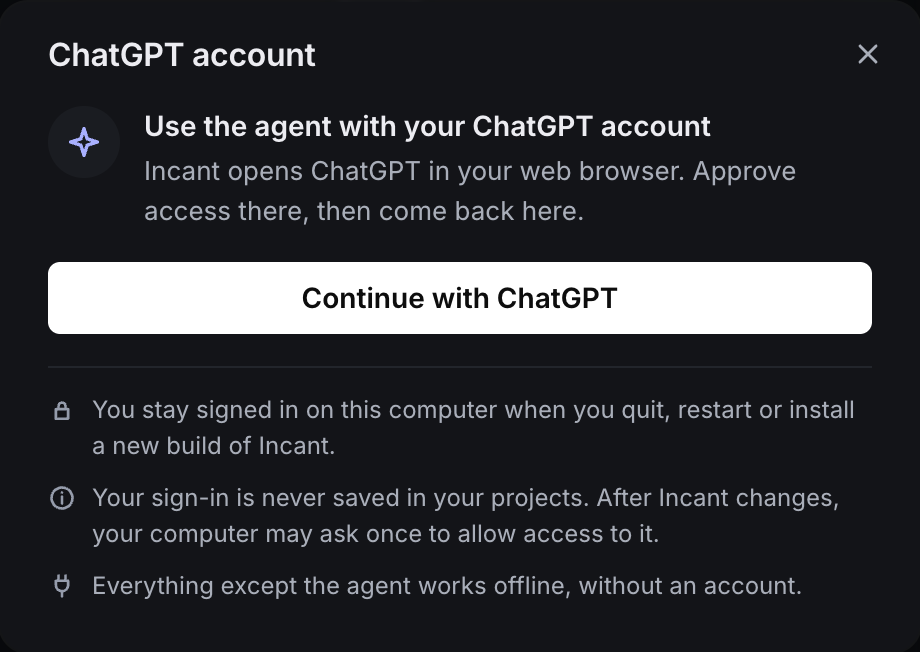
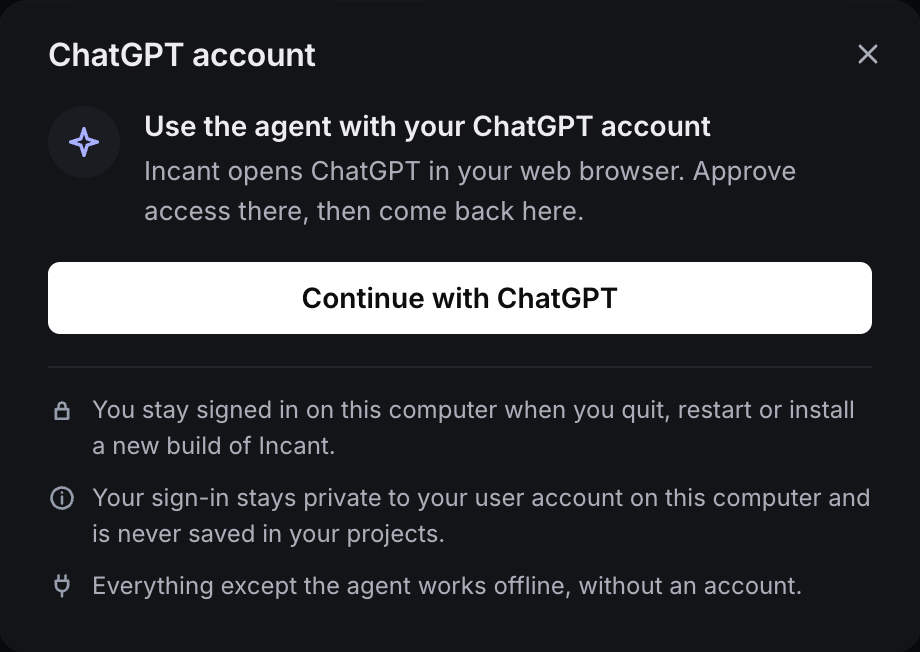
Account dialog: drop the OS permission prompt line from retention copy
Per the director's Keychain correction, sign-in storage on macOS no longer uses
Keychain, so the dialog no longer mentions access prompts. Generic wording: you
stay signed in across restarts and new builds; sign-in stays private to your user
account on this computer and out of projects; offline otherwise. No encryption or
storage details. Test guards against prompt/keychain/permission/encrypt copy.

Built-by: claude

Changed region(s): [[0.0913, 0.7362, 0.9435, 0.8589]]

diff --git a/editor/ui/src/components/AccountDialog.test.tsx b/editor/ui/src/components/AccountDialog.test.tsx
@@ -63,7 +63,9 @@ describe('ChatGPT account dialog', () => {
     const cta = within(d).getByRole('button', { name: 'Continue with ChatGPT' });
     expect(document.activeElement).toBe(cta);
     expect(within(d).getByText(/stay signed in on this computer when you quit, restart or install a new build of Incant/)).toBeTruthy();
-    expect(within(d).getByText(/never saved in your projects/)).toBeTruthy();
+    expect(within(d).getByText(/private to your user account on this computer and is never saved in your projects/)).toBeTruthy();
+    // No storage implementation details or OS permission prompts are promised or described.
+    expect(d.textContent).not.toMatch(/may ask|keychain|permission|encrypt/i);
     expect(within(d).getByText(/works offline, without an account/)).toBeTruthy();
     await expectNoAxeViolations(document.body);
     fireEvent.click(cta);

diff --git a/editor/ui/src/components/AccountDialog.tsx b/editor/ui/src/components/AccountDialog.tsx
@@ -338,10 +338,7 @@ function AccountBody({
         </li>
         <li>
           <Icon name="info" size={14} />
-          <span>
-            Your sign-in is never saved in your projects. After Incant changes, your computer may ask once to allow access to
-            it.
-          </span>
+          <span>Your sign-in stays private to your user account on this computer and is never saved in your projects.</span>
         </li>
         <li>
           <Icon name="plug" size={14} />

diff --git a/handoffs/0003-openai-login/result.md b/handoffs/0003-openai-login/result.md
@@ -8,8 +8,43 @@ packet, so nothing here is native evidence. Phase gate approval is not claimed.
 Model: Claude Opus 5.5 (`claude-opus-5-5`), run through Claude Code in this worktree
 with the director's bypassPermissions authorization. No other model was substituted.
 
-Commits by Claude: 35f3527 holds the first UI. The follow-up is a separate commit on
-top of Astra's 86aa0da, which remains attributed to Astra.
+Commits by Claude: 35f3527 holds the first UI. 8bb34e1 is the follow-up on top of
+Astra's 86aa0da, which remains attributed to Astra. The Keychain copy correction
+below is its own commit.
+
+## Latest correction: no Keychain prompt line (director feedback)
+
+I acknowledge the director's request to stop the repeated Keychain password prompts.
+Astra is moving macOS sign-in storage to private local files. The dialog no longer
+says "After Incant changes, your computer may ask once to allow access to it." I
+chose generic cross-platform wording, so no platform branch is needed. The facts now
+read:
+
+- You stay signed in on this computer when you quit, restart or install a new build
+  of Incant.
+- Your sign-in stays private to your user account on this computer and is never
+  saved in your projects.
+- Everything except the agent works offline, without an account.
+
+The new wording promises no encryption and names no file modes, Keychain or other
+developer detail. A test now fails if the dialog text mentions "may ask",
+"keychain", "permission" or "encrypt". `DESIGN.md` was updated to match.
+
+I checked this against browser fixtures only. I did not touch the real account, the
+native app or any credentials.
+
+Visual QA: I re-captured all 32 fixture screenshots and inspected the signed-out and
+narrow 900x600 signed-in dialogs. The three facts take two lines each, and nothing
+clips or wraps badly.
+
+Commands, run from `editor/ui`:
+
+```
+npm run typecheck                    # pass, 0 errors
+npx vitest run                       # 180 tests passed
+npm run build                        # pass
+node scripts/account-evidence.mjs    # 32 screenshots, 13 axe runs, 0 violations
+```
 
 ## Follow-up after 35f3527 (priority revision)
 
@@ -33,14 +68,8 @@ unstaged because the text is Astra's. The shared contract is untouched.
 - **Error without a signed-in account.** The headline is "Sign-in didn't finish". The
   body drops "Nothing was changed", which the UI cannot know.
 - **Chip.** Any error now reads "Needs attention" instead of "Sign-in problem".
-- **Persistence copy.** It promises the sign-in survives restarts and new builds. It
-  does not promise the absence of operating system prompts. It is now three short
-  facts:
-  - You stay signed in on this computer when you quit, restart or install a new build
-    of Incant.
-  - Your sign-in is never saved in your projects. After Incant changes, your computer
-    may ask once to allow access to it.
-  - Everything except the agent works offline, without an account.
+- **Persistence copy.** It promises the sign-in survives restarts and new builds. The
+  latest correction above superseded the operating-system prompt line added here.
 - **Sign-out confirmation.** It now adds that other saved accounts stay listed.
 - **Fixtures.** They follow `editor/app/src/provider.rs`. The new `adding-browser` and
   `error-while-signed-in` states were added. Error codes are `provider.auth`, the API

diff --git a/editor/ui/DESIGN.md b/editor/ui/DESIGN.md
@@ -125,8 +125,8 @@ Both are bundled locally, so nothing is fetched from a network.
   second mono line, a bordered list of saved accounts where only a signed-in account
   is filled and marked "In use" (signed-out registrations offer "Sign in", never an
   active mark), then actions and three facts: you stay signed in across restarts and
-  new builds, sign-in is never in projects and the computer may ask once for access
-  after Incant changes, and everything but the agent works offline. While adding an
+  new builds, sign-in stays private to the user account and out of projects (no
+  storage or encryption details), and everything but the agent works offline. While adding an
   account, a note says the current one stays in use and cancelling keeps it. "Continue with ChatGPT" uses OpenAI's
   white button format. Sign-out asks inline first. Escape closes without cancelling a
   sign-in; "Cancel sign-in" is explicit. No field ever accepts a token, code or key.
